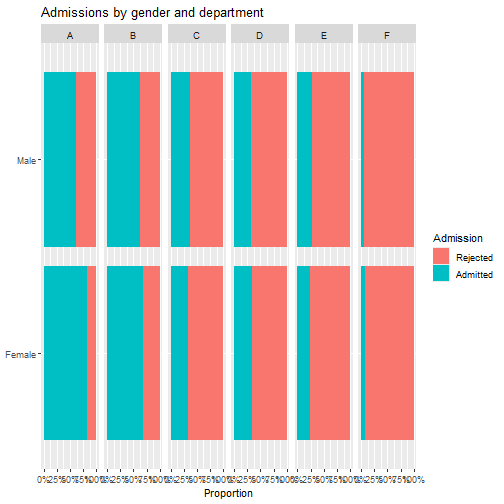
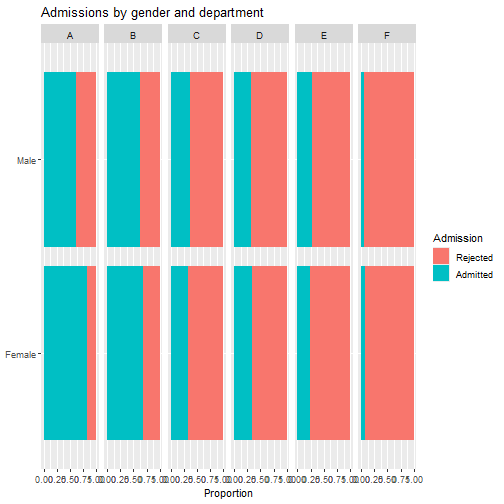
edit w05-l09 code for bar plot

Changed region(s): [[0.0595, 0.9226, 0.8333, 0.9821]]

diff --git a/slides/w05-L09/w05-L09.html b/slides/w05-L09/w05-L09.html
@@ -640,7 +640,6 @@ ucbadmit %&gt;%
 ggplot(ucbadmit, aes(y = gender, fill = admit)) +
   geom_bar(position = "fill") +
   facet_wrap(. ~ dept, nrow = 1) +
-  scale_x_continuous(labels = label_percent()) +
   labs(title = "Admissions by gender and department",
        x = "Proportion", 
        y = NULL,
